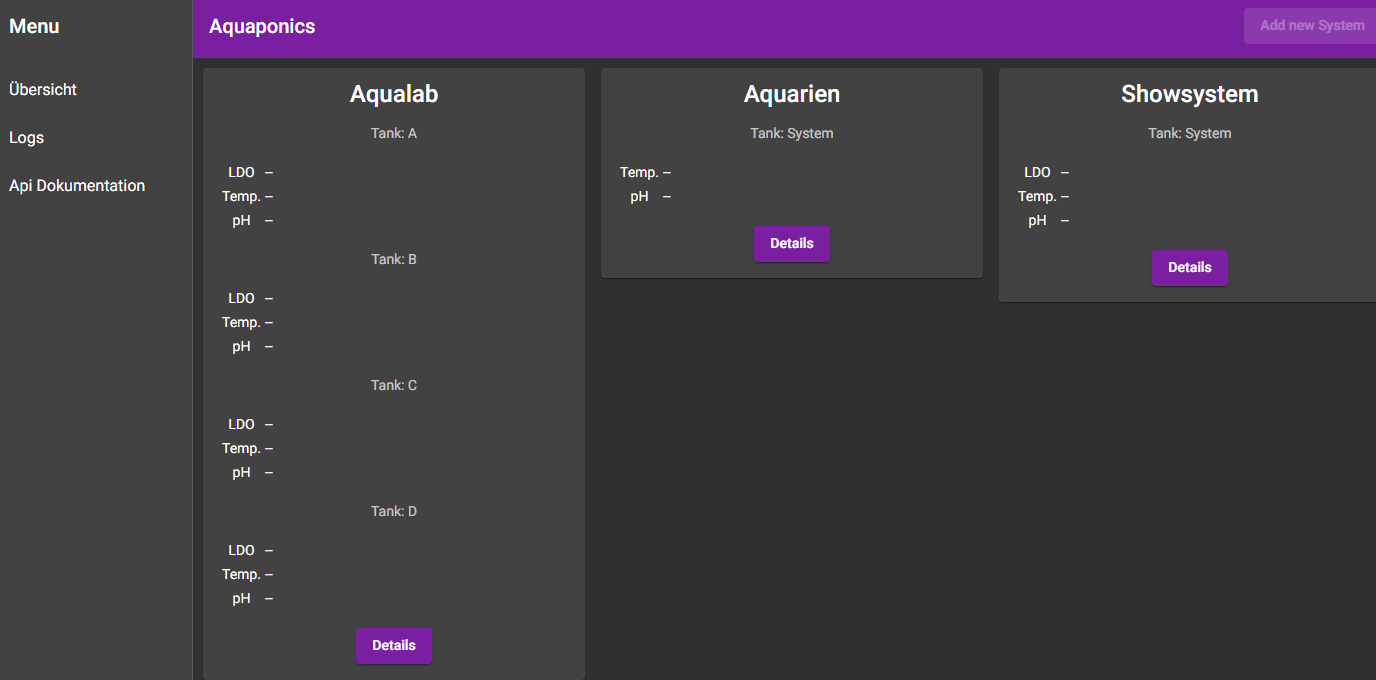
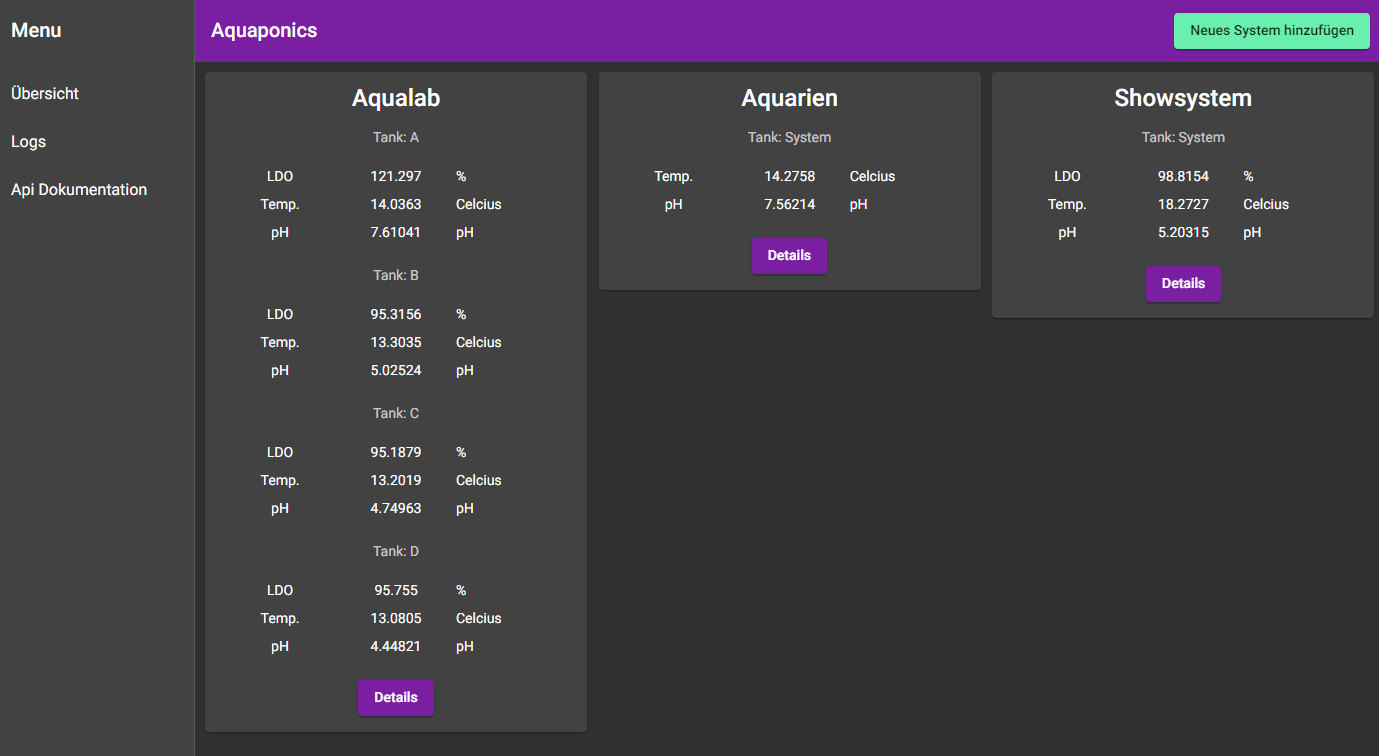
Added new pictures from frontend

diff --git a/sections/results.tex b/sections/results.tex
@@ -7,27 +7,31 @@
 	
 	Als Frontend haben wir 3 Menüpunkte ausgewählt, welche die Hauptfaktoren unserer Schnittstelle aufzeigen. \\
 	Der erste Punkt ist die Übersicht. Hier werden die aktuellen Systeme mit Tanks und die Hauptsensorendaten aufgeführt. \\
-	Für alle Sensorendaten gibt es einen Editierbutton, mit welchem die Daten geändert werden können.\\
-	Unterhalb jedes Systems gibt es die Details Option. Über diesen gelangt man zu den detaillierten Infos jedes Tanks des oben genannten Systems in der unteren Abbildung \gls{angular} Frontend. \\ \\
-	Das tabellarische Layout ist an das Design des \gls{sc1000} angelehnt, damit mit einer gewohnten Umgebung weitergearbeitet werden kann. 
+	Unterhalb jedes Systems gibt es die Details Option. Über diesen gelangt man zu den detaillierten Infos jedes Tanks des oben genannten Systems in der unteren Abbildung \gls{angular} Frontend. 
 	\begin{figure}[H]
 		\centering
 		\includegraphics[scale=0.4]{Frontend_Dashboard}
 		\caption{Übersicht}
 		\label{fig:Frontend_Dashboard}
 	\end{figure}
-	\par
-	\noindent
-	Der zweite Punkt ist Logs. Hier sind alle Daten über einen älteren Zeitraum archiviert worden. Die Daten sind wichtig um zu vergleichen, wie sich Veränderungen über eine längere Zeit gebildet haben. Die Logdaten sind eins zu eins aus der Datenbank geladen und werden dort immer aktualisiert. Hier sind auch Sensorennummer und Zeitstempel enthalten damit keine Verwirrung auftritt.
-	
 	\begin{figure}[H]
 		\centering
-		\includegraphics[scale=0.4]{Frontend_Logs}
+		\includegraphics[scale=0.4]{Frontend_Details}
 		\caption{Logs}
-		\label{fig:Frontend_Logs}
+		\label{fig:Frontend_Details}
+	\end{figure}	
+	\begin{figure}[H]
+		\centering
+		\includegraphics[scale=0.4]{Frontend_newSystem}
+		\caption{Logs}
+		\label{fig:Frontend_newSystem}
 	\end{figure}
 	\par
-	\noindent
+	\noindent	
+	Das tabellarische Layout ist an das Design des \gls{sc1000} angelehnt, damit mit einer gewohnten Umgebung weitergearbeitet werden kann. 
+	\\ \\
+	Der zweite Punkt ist Logs. Hier sind alle Daten über einen älteren Zeitraum archiviert worden. Die Daten sind wichtig um zu vergleichen, wie sich Veränderungen über eine längere Zeit gebildet haben. Die Logdaten sind eins zu eins aus der Datenbank geladen und werden dort immer aktualisiert. Hier sind auch Sensorennummer und Zeitstempel enthalten damit keine Verwirrung auftritt.
+	\\ \\
 	Als letzter Menüpunkt wird noch auf die \gls{api} Dokumentation verwiesen, welche sich auf die Swagger UI bezieht. Dort sieht man alle Eigenschaften und andere Wissenswerte Details über die Schnittstelle für zukünftige Entwicklungen.\par 
 	\begin{figure}[H]
 		\centering
